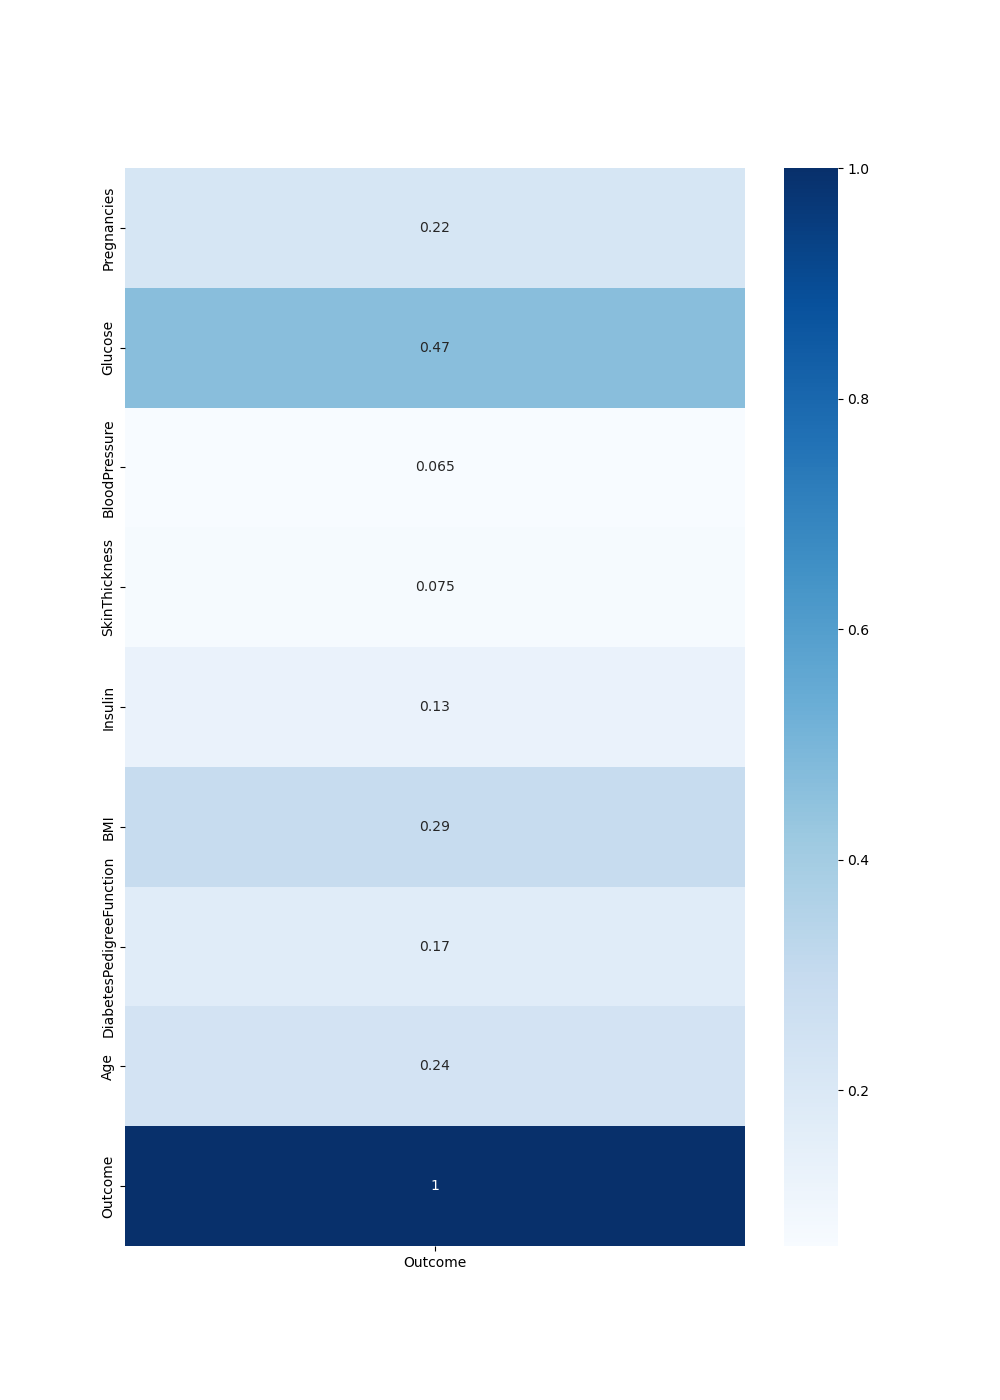
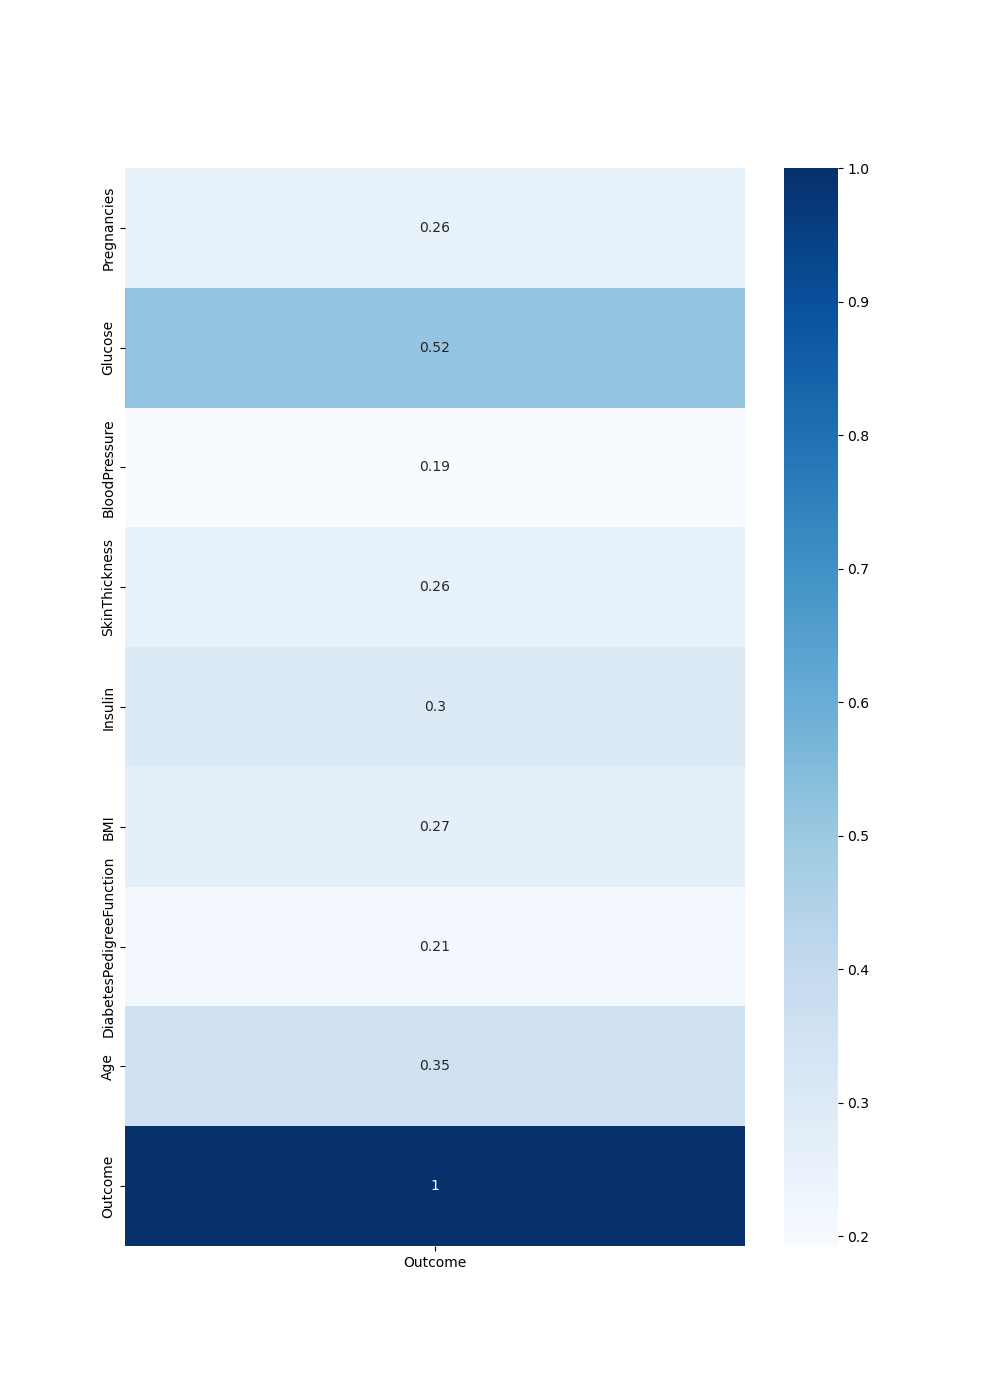
Fixing outcome corr plot

diff --git a/scripts/data_exploration.py b/scripts/data_exploration.py
@@ -55,6 +55,10 @@ def main():
     df = models.clean_df(df)
     cols = ['Pregnancies', 'Glucose', 'BloodPressure', 'SkinThickness', 'Insulin', 'BMI', 'DiabetesPedigreeFunction', 'Age']
 
+    outcome_corr_plots(df)
+    feature_histogram(df, cols)
+    corr_pairplot(df)
+
     print("Overall Data")
     print(data_description(df),'\n')
 
@@ -65,9 +69,6 @@ def main():
     df_1 = df[df['Outcome'] == 1]
     print("Outcome = 1")
     print(data_description(df_1),'\n')
-
-    feature_histogram(df, cols)
-    corr_pairplot(df)
 
 
 
